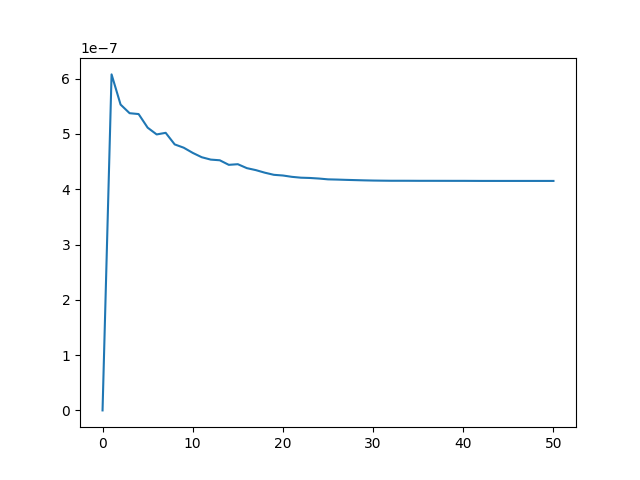
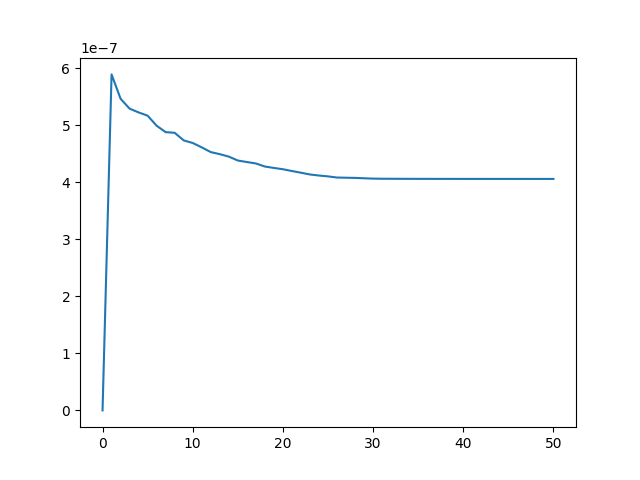
Add swap mutation process

diff --git a/GA/src/main.py b/GA/src/main.py
@@ -800,17 +800,23 @@ def crossover(p1, p2, r_cross):
     return [c1, c2]
 
 # mutation operator
-# by flipping the bits
-
-
-def mutation(bitstring, r_mut):
-    # for i in range(len(bitstring)):
-    #     # check for a mutation
-    #     if rand() < r_mut:
-    #         # flip the bit
-    #         bitstring[i] = 1 - bitstring[i]
-    do_mutaiton = 0
-
+# reversion and swap method
+# pass parent1 for child1
+# pass parent2 for child2
+def mutation(p, child, r_mut):
+    # randomly choose 2 index between gen len
+    # swap index from parent to child
+    
+    indexx_1_mut = random.randint(0,  len(p)-1)
+    indexx_2_mut = random.randint(0,  len(p)-1)
+    if rand() < r_mut:
+        # swap the index
+        child[indexx_1_mut] = p[indexx_1_mut]
+        child[indexx_2_mut] = p[indexx_2_mut]
+        
+    # reversion you can do a loop
+    # index1+1 index2-1
+    # swap index from parent to child
 
 def ga():
     start_time = time.time()
@@ -849,7 +855,7 @@ def ga():
     i = [1, 2]
     ix = [1, 2]
     ixx = [1, 2]
-    j = [1, 2, 3, 4, 5]
+    j = [1, 2, 3, 4, 5] # collection-center
     ij = [1, 2]
     hj = [1, 2]
     m = [1, 2, 3] # material
@@ -904,11 +910,16 @@ def ga():
             # get selected parents in pairs
             p1, p2 = selected[idxe], selected[idxe + 1]
             # crossover and mutation
+            mut_indx=0
             for cross_21 in crossover(p1, p2, cross_rate):
                 # mutation
-                mutation(cross_21, mutation_rate)
+                if mut_indx==0:
+                    mutation(p1, cross_21, mutation_rate)
+                else:
+                    mutation(p2, cross_21, mutation_rate)
                 # store for next generation
                 children.append(cross_21)
+                mut_indx+=1
 
         # replace population
         next_pop = children

diff --git a/GA/src/result.py b/GA/src/result.py
@@ -19,7 +19,7 @@ def write(gen, value):
     i = [1, 2]
     ix = [1, 2]
     ixx = [1, 2]
-    j = [1, 2, 3, 4, 5]
+    j = [1, 2, 3, 4, 5] # collection-center
     ij = [1, 2]
     hj = [1, 2]
     m = [1, 2, 3] # material
